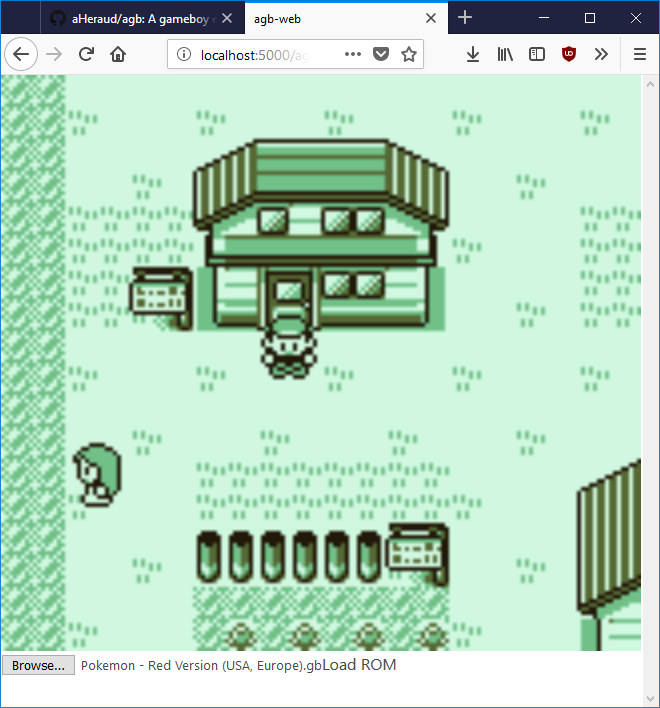
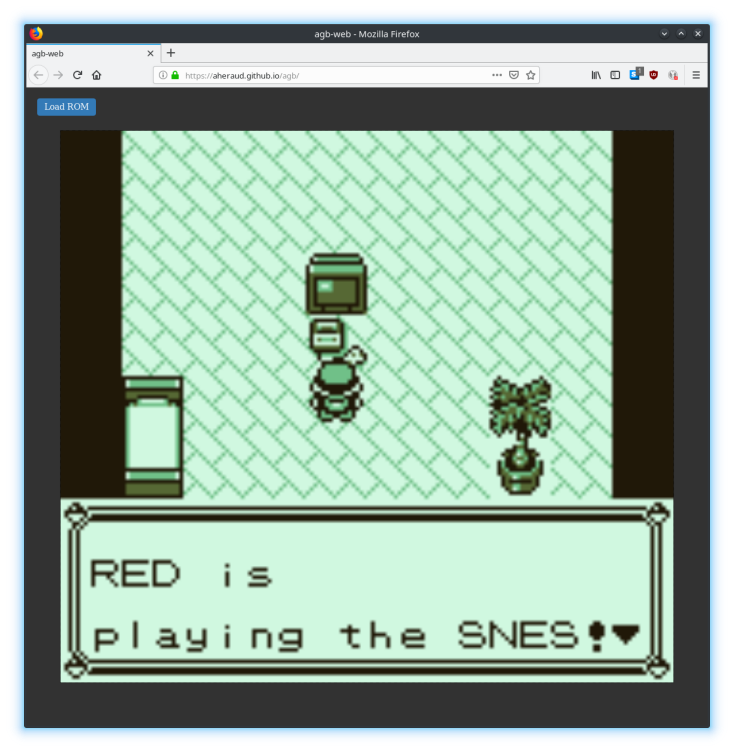
Added link to demo in readme

diff --git a/README.md b/README.md
@@ -18,6 +18,8 @@ Has a simple command line debugger (no debugger gui, yet).
 
 Run the emulator in a browser using web assembly!
 
+Demo at https://aheraud.github.io/agb/
+
 ![alt text](images/agb-web-pokemon.png "screenshot of Pokemon Red running in a browser using agb-web")
 
 ## TODO
